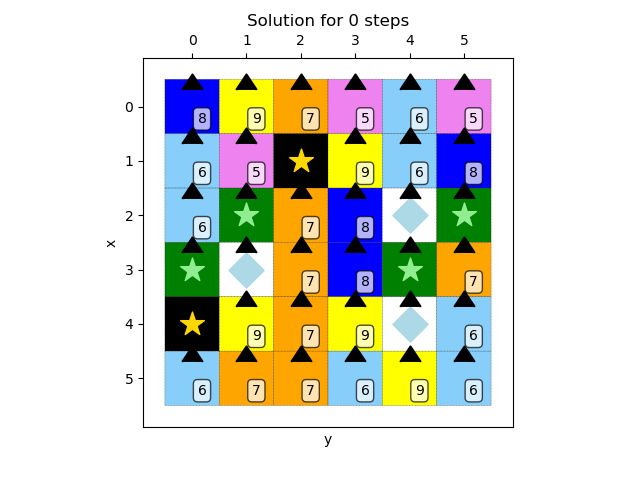
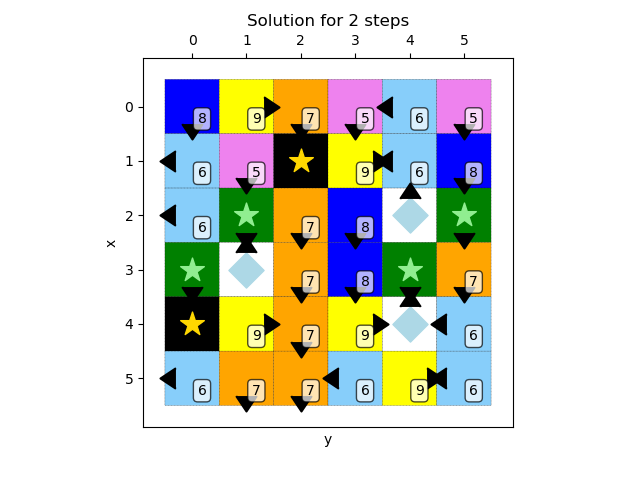
fix

diff --git a/automated-reasoning/automated_reasoning/assignment2/robot/robot.py b/automated-reasoning/automated_reasoning/assignment2/robot/robot.py
@@ -2,9 +2,13 @@ ACTIONS = ["N", "S", "W", "E", "STAND_STILL"]
 
 import math
 import sys
+import itertools
 from grid import Cell, Grid, SolutionChecker, START_CELL_OBS, TARGET_CELL_OBS, LAVA_CELL_OBS, STICKY_CELL_OBS
 
 from z3 import *
+
+def flatten(l:list):
+    return list(itertools.chain(*l))
 
 #############
 # Task 3
@@ -20,7 +24,7 @@ def solve(grid: Grid) -> tuple[int, dict[Cell, str]]:
 
     best_t = 0
     best_policy = None
-    for T in reversed(range(3)):
+    for T in reversed(range(2,3)):
         V_PLAN = {c:Int(f"p_{c}") for c in grid.colors}
         F_PLAN_BOUND = [Or(V_PLAN[c] == 1, V_PLAN[c] == 2, V_PLAN[c] == 3, V_PLAN[c] == 4)
                         for c in grid.colors if c != 1] + [V_PLAN[1] == 5]
@@ -47,9 +51,9 @@ def solve(grid: Grid) -> tuple[int, dict[Cell, str]]:
         F_BASIC_MOVEMENT = [
             [
                 Implies(
-                    V_PLAN[c] == d
+                    And(V_PLAN[c] == d, match(s,t,c,x,y))
                 , # ===>
-                    And(V_X[s][t] == neighbors_id(x, y, d).x, V_Y[s][t] == neighbors_id(x, y, d).y)
+                    And(V_X[s][t] == neighbors_id(x, y, d).x)#, V_Y[s][t] == neighbors_id(x, y, d).y)
                 )
             ]
             for d in range(len(ACTIONS))
@@ -63,8 +67,10 @@ def solve(grid: Grid) -> tuple[int, dict[Cell, str]]:
         # print(F_BASIC_MOVEMENT[:10])
         # print(len(F_BASIC_MOVEMENT))
         # quit()
+        [print(m) for m in F_BASIC_MOVEMENT[0:50]]
+        print(len(F_BASIC_MOVEMENT))
 
-        phi = F_PLAN_BOUND
+        phi = F_PLAN_BOUND + flatten(F_BASIC_MOVEMENT)
     
         s = Solver()
         s.add(phi)
@@ -77,7 +83,6 @@ def solve(grid: Grid) -> tuple[int, dict[Cell, str]]:
             best_policy = policy
             print(f"Found better solution with T={T}")
         except:
-            print("Previous solution was best.")
             return best_t, best_policy
     print("Warning, out of the loop!")
     return best_t, best_policy
